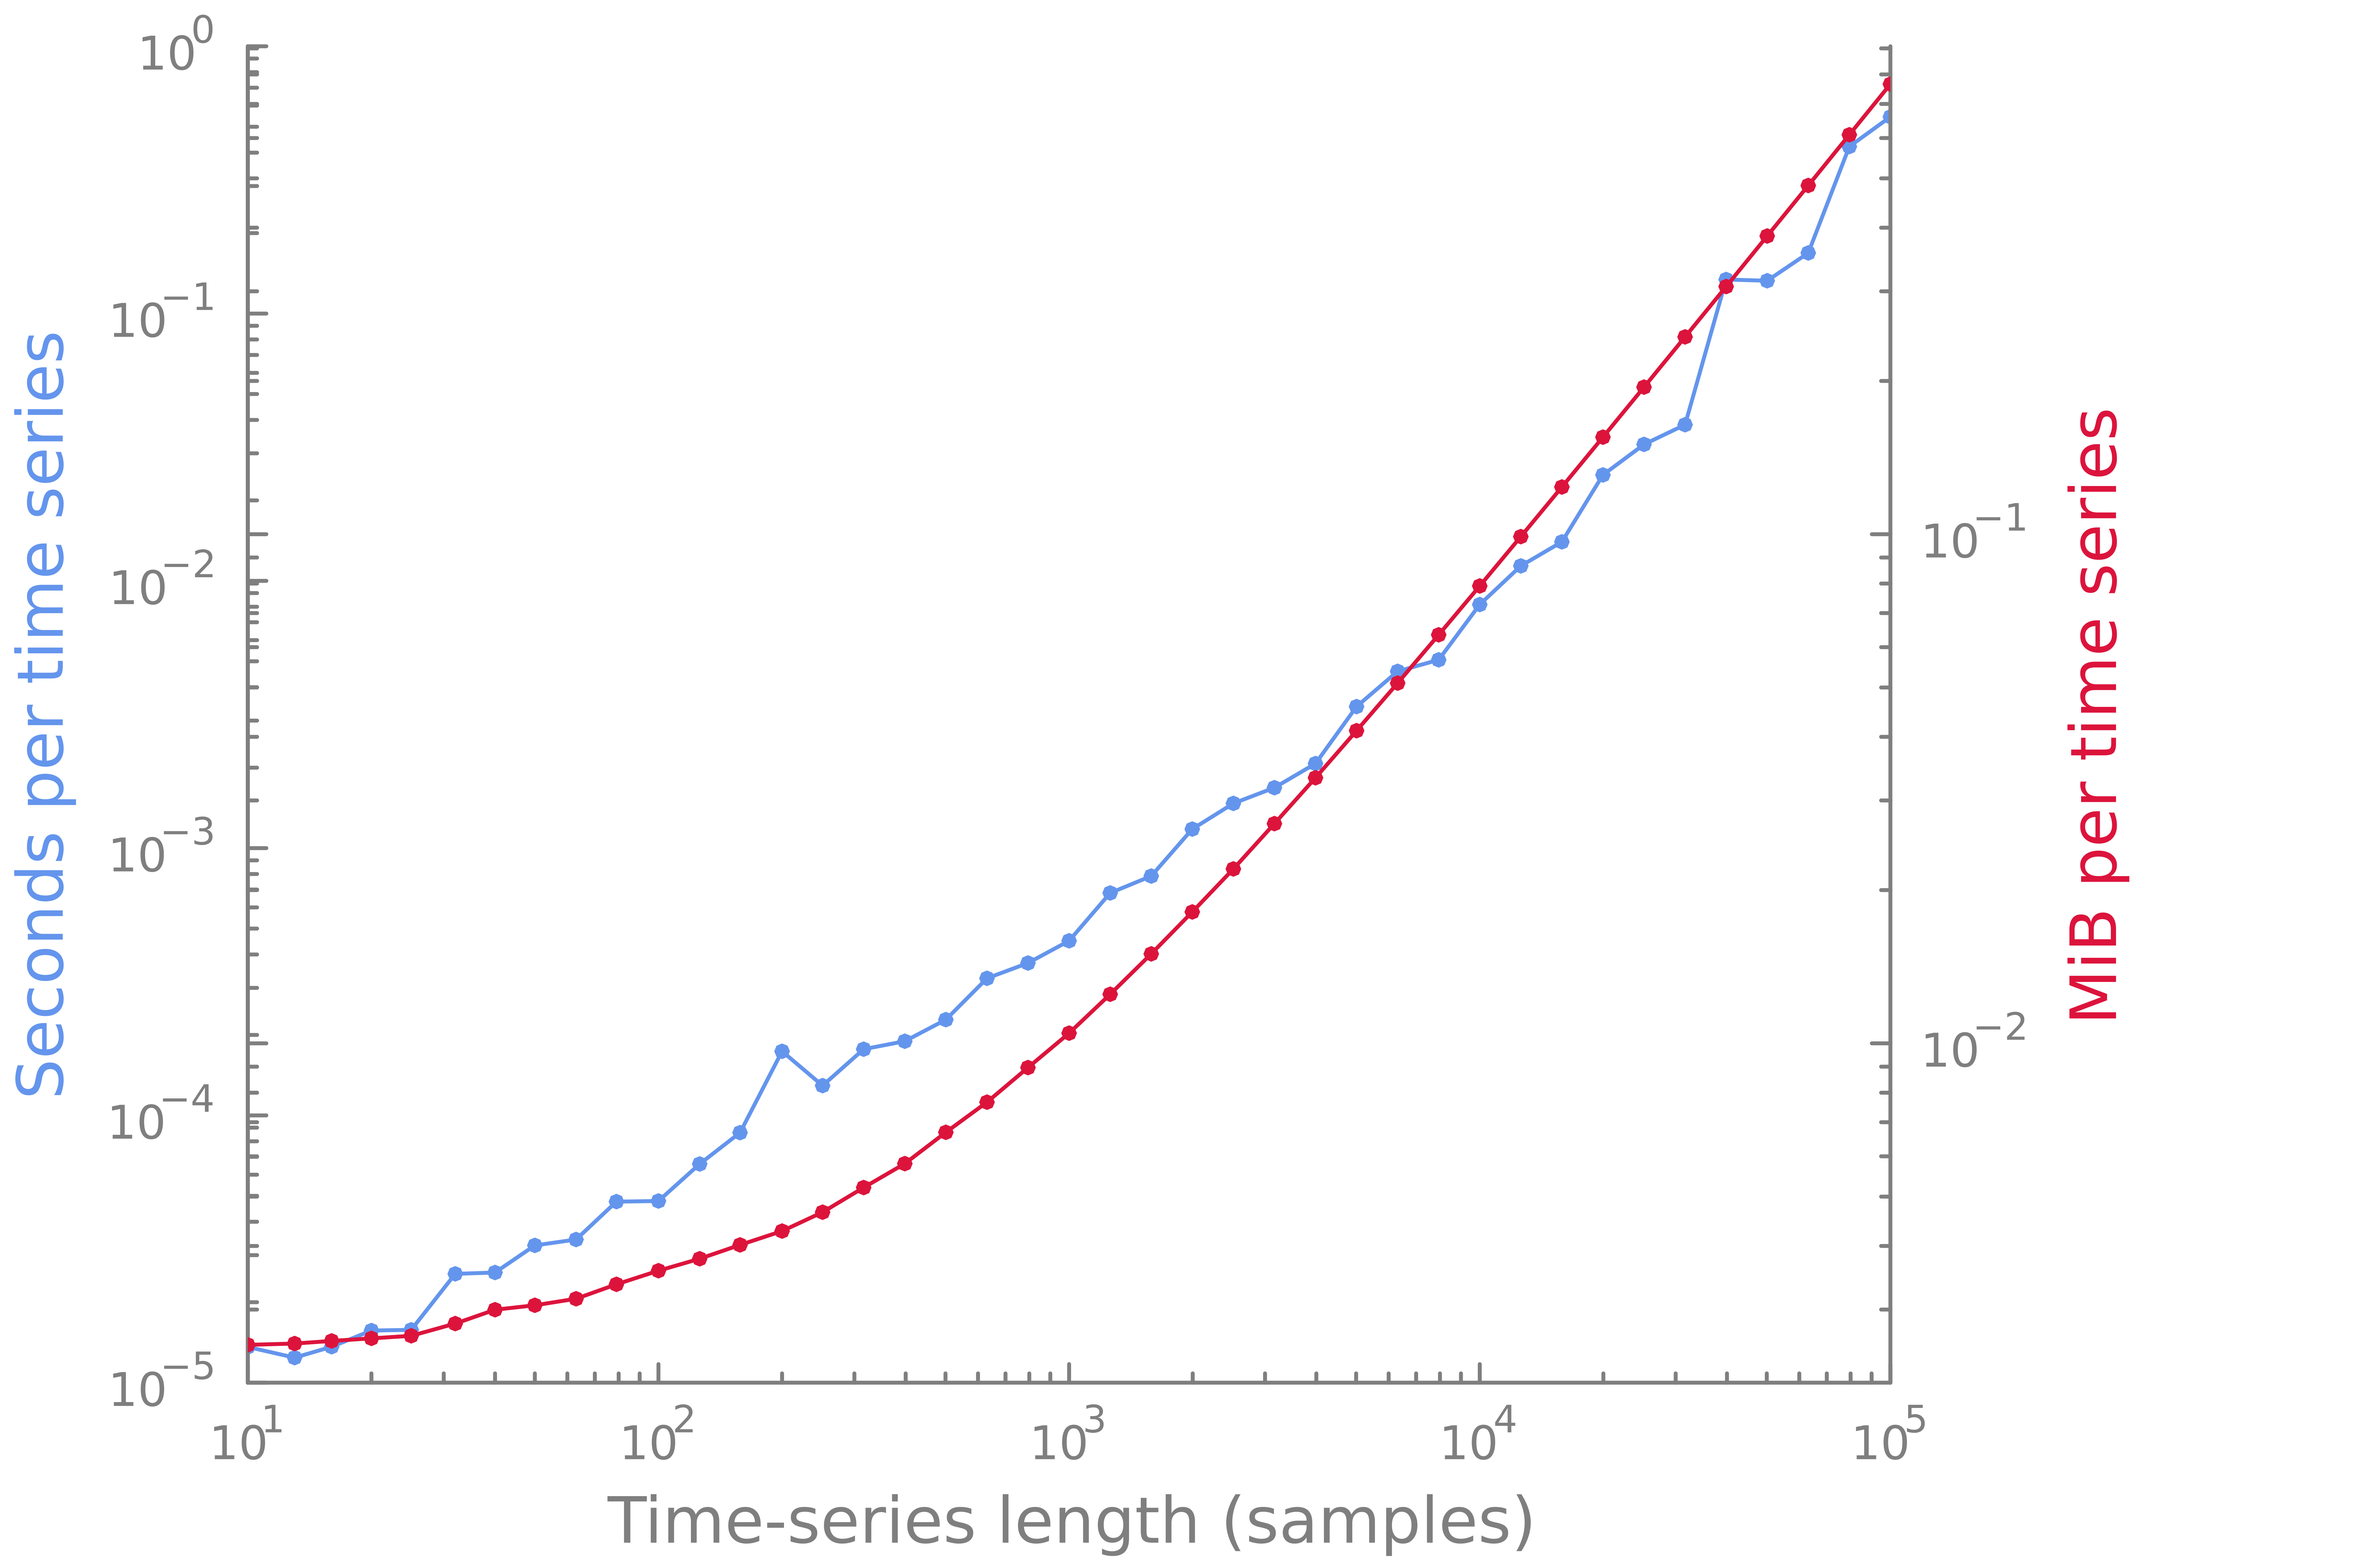
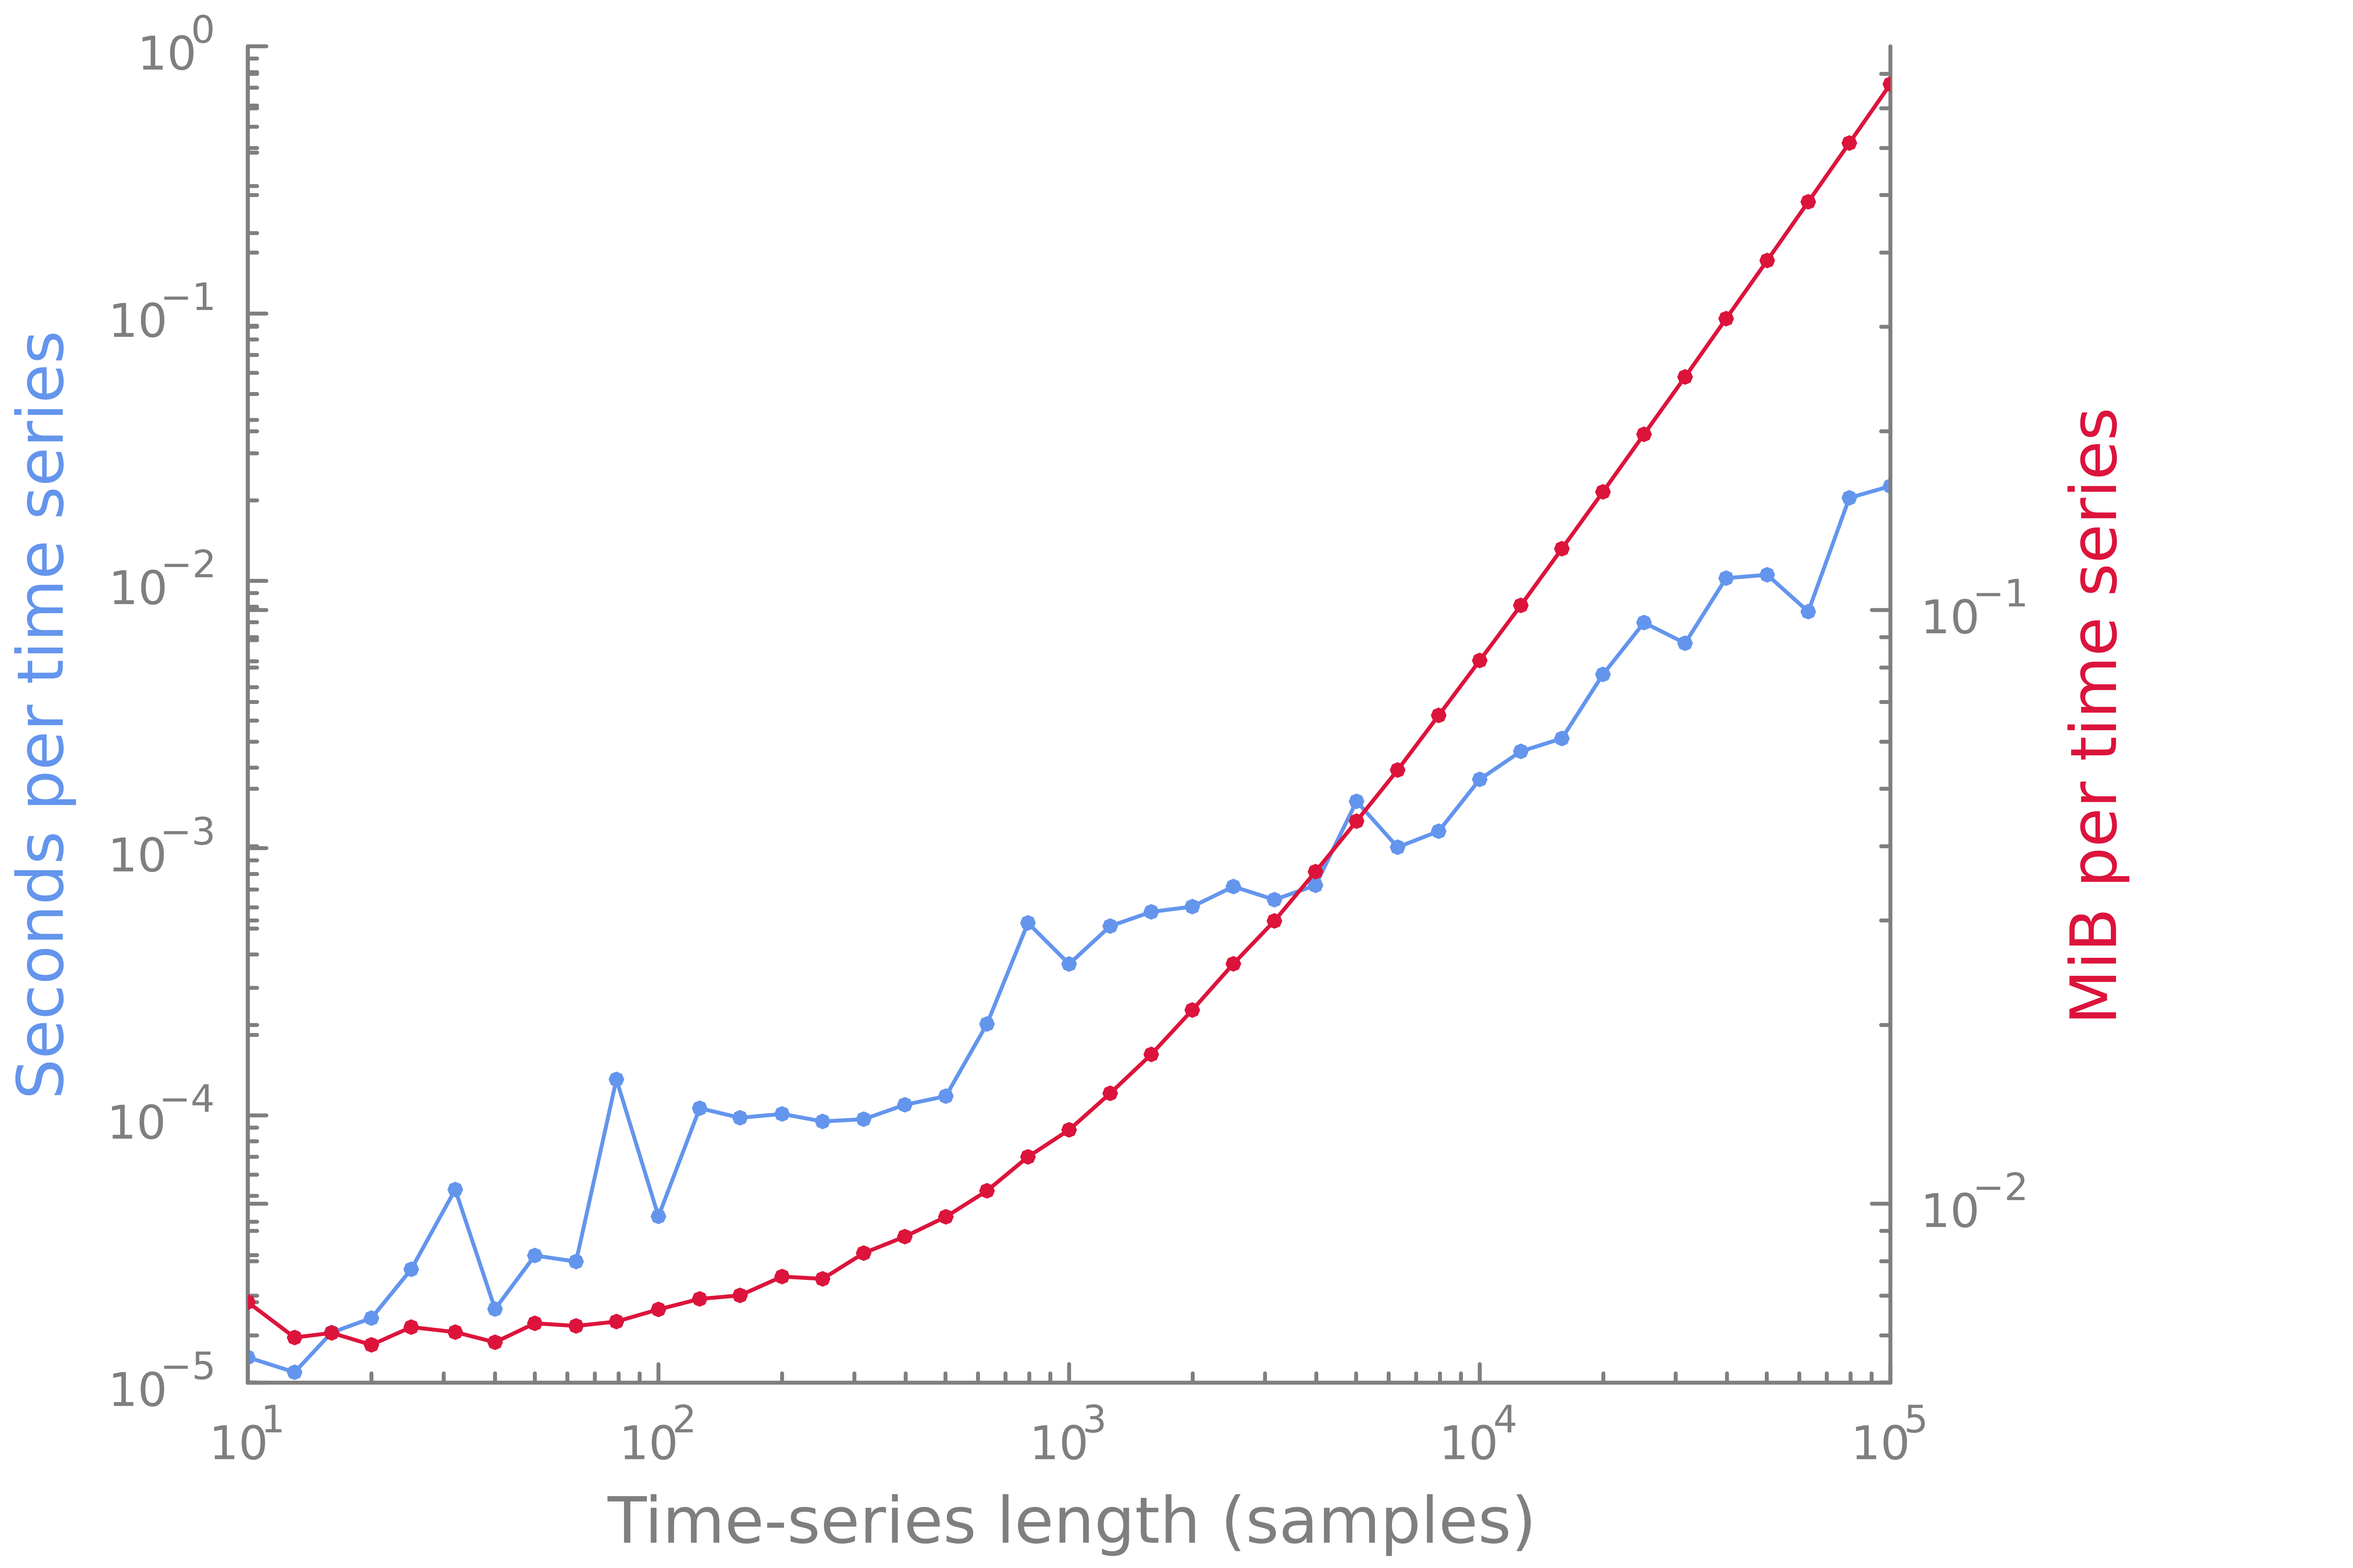
Switch to catch22_jll 0.6 (faster binary)

diff --git a/CHANGELOG.md b/CHANGELOG.md
@@ -1,0 +1,116 @@
+# Changelog
+
+## [0.7.1] - 2026-08-17
+
+- Compat: `catch22_jll` 0.6, `DimensionalData` 0.30, `TimeseriesFeatures` 0.7.
+- Formatting switched to Runic; nightly CI runs.
+
+## [0.7.0] - 2024-12-16
+
+- Reworked internal types for type stability and performance.
+- Fixed slow `Float64` conversion of non-float inputs.
+- Fixed `CovarianceImage`.
+- Expanded scaling and per-feature performance tests.
+
+## [0.6.0] - 2024-12-10
+
+- **Breaking**: updated for `TimeseriesFeatures` 0.5.
+
+## [0.5.2] - 2024-12-09
+
+- Fixed `DN_Mean` and `DN_Spread_Std` on non-`Float64` inputs.
+- Dropped the `ProgressLogging` dependency.
+
+## [0.5.1] - 2024-11-05
+
+- Support for `DimensionalData` 0.29.
+- Type-stability tests; docs point to the catch22 GitBook wiki.
+
+## [0.5.0] - 2024-01-23
+
+- `Feature`, `FeatureSet` and `FeatureArray` moved to `TimeseriesFeatures.jl` and are re-exported from here.
+
+## [0.4.5] - 2023-10-17
+
+- New feature: `CR_RAD`.
+- Added short-name feature sets.
+- Test comparing per-feature evaluation time.
+
+## [0.4.4] - 2023-05-10
+
+- Fixed caching of `dlopen` pointers.
+- `FeatureSet`s can be evaluated over vectors of time series.
+
+## [0.4.3] - 2022-11-09
+
+- Fixed minor-version compat bounds.
+
+## [0.4.2] - 2022-11-09
+
+- Relaxed compat bounds.
+
+## [0.4.1] - 2022-09-21
+
+- Added `SuperFeature`s and `SuperFeatureSet`s; catch22 z-scoring now uses them.
+- Added `ACF` and `PACF` super-feature sets.
+- Fixed `Feature` evaluation on `DimArray`s.
+
+## [0.4.0] - 2022-06-22
+
+- Updated to catch22 v0.4.0.
+- `DN_Mean` and `DN_Spread_Std` are now `Feature`s.
+- `Feature`s and `FeatureSet`s can be constructed with keywords; improved printing.
+- Test data served via Artifacts; source restructured into modules; docs published.
+
+## [0.3.1] - 2022-06-10
+
+- Added `catch24`.
+- Indexing by feature names alone.
+- Updated for the interpolated `CO_f1ecac`; removed some dependencies.
+
+## [0.2.4] - 2022-06-05
+
+- `DimensionalData` compat.
+
+## [0.2.3] - 2022-06-04
+
+- Version bump for consistency.
+
+## [0.2.2] - 2022-05-31
+
+- Added `covarianceimage` (loaded via `Requires` when `Plots` is available), with optional clustering, manual sorting and feature weights.
+- `Feature` and `FeatureSet` evaluation preserves `DimArray` dimensions.
+- Threaded feature evaluation with progress logging.
+
+## [0.2.1] - 2021-06-24
+
+- Guard against very short time series.
+- Operations between a `FeatureSet` and a `Feature`; `AbstractFeatureArray` aliases.
+
+## [0.2] - 2021-05-29
+
+- Added the `Feature`, `FeatureSet` and `FeatureArray` types, with keywords, descriptions and set operations.
+
+## [0.1] - 2021-04-20
+
+- Initial release: `ccall` wrappers for the catch22 C library via `catch22_jll`, `DimensionalData`-backed feature matrices, feature names and descriptions, and test time series.
+
+[0.7.1]: https://github.com/brendanjohnharris/Catch22.jl/compare/v0.7.0...v0.7.1
+[0.7.0]: https://github.com/brendanjohnharris/Catch22.jl/compare/v0.6.0...v0.7.0
+[0.6.0]: https://github.com/brendanjohnharris/Catch22.jl/compare/v0.5.2...v0.6.0
+[0.5.2]: https://github.com/brendanjohnharris/Catch22.jl/compare/v0.5.1...v0.5.2
+[0.5.1]: https://github.com/brendanjohnharris/Catch22.jl/compare/v0.5.0...v0.5.1
+[0.5.0]: https://github.com/brendanjohnharris/Catch22.jl/compare/v0.4.5...v0.5.0
+[0.4.5]: https://github.com/brendanjohnharris/Catch22.jl/compare/v0.4.4...v0.4.5
+[0.4.4]: https://github.com/brendanjohnharris/Catch22.jl/compare/v0.4.3...v0.4.4
+[0.4.3]: https://github.com/brendanjohnharris/Catch22.jl/compare/v0.4.2...v0.4.3
+[0.4.2]: https://github.com/brendanjohnharris/Catch22.jl/compare/v0.4.1...v0.4.2
+[0.4.1]: https://github.com/brendanjohnharris/Catch22.jl/compare/v0.4.0...v0.4.1
+[0.4.0]: https://github.com/brendanjohnharris/Catch22.jl/compare/v0.3.1...v0.4.0
+[0.3.1]: https://github.com/brendanjohnharris/Catch22.jl/compare/v0.2.4...v0.3.1
+[0.2.4]: https://github.com/brendanjohnharris/Catch22.jl/compare/v0.2.3...v0.2.4
+[0.2.3]: https://github.com/brendanjohnharris/Catch22.jl/compare/v0.2.2...v0.2.3
+[0.2.2]: https://github.com/brendanjohnharris/Catch22.jl/compare/v0.2.1...v0.2.2
+[0.2.1]: https://github.com/brendanjohnharris/Catch22.jl/compare/v0.2...v0.2.1
+[0.2]: https://github.com/brendanjohnharris/Catch22.jl/compare/v0.1...v0.2
+[0.1]: https://github.com/brendanjohnharris/Catch22.jl/releases/tag/v0.1

diff --git a/README.md b/README.md
@@ -54,6 +54,9 @@ If a vector is provided (a single time series) then a vector of feature values w
 
 Finally, note that since `catch22` is a `FeatureSet` it can be indexed with a vector of feature names as symbols to calculate a `FeatureArray` for a subset of _catch22_. For details on the `Feature`, `FeatureSet` and `FeatureArray` types check out the package docs.
 
+> [!NOTE]
+> Since v0.7, `FeatureSet`'s are evaluated serially by default. To enable threaded evaluation, please pass `chart = MoreMaps.Threaded()` (see [TimeseriesFeatures.jl](https://github.com/brendanjohnharris/TimeseriesFeatures.jl#parallelism-and-progress-with-moremapsjl)).
+
 <br>
 
 # Single-threaded performance
